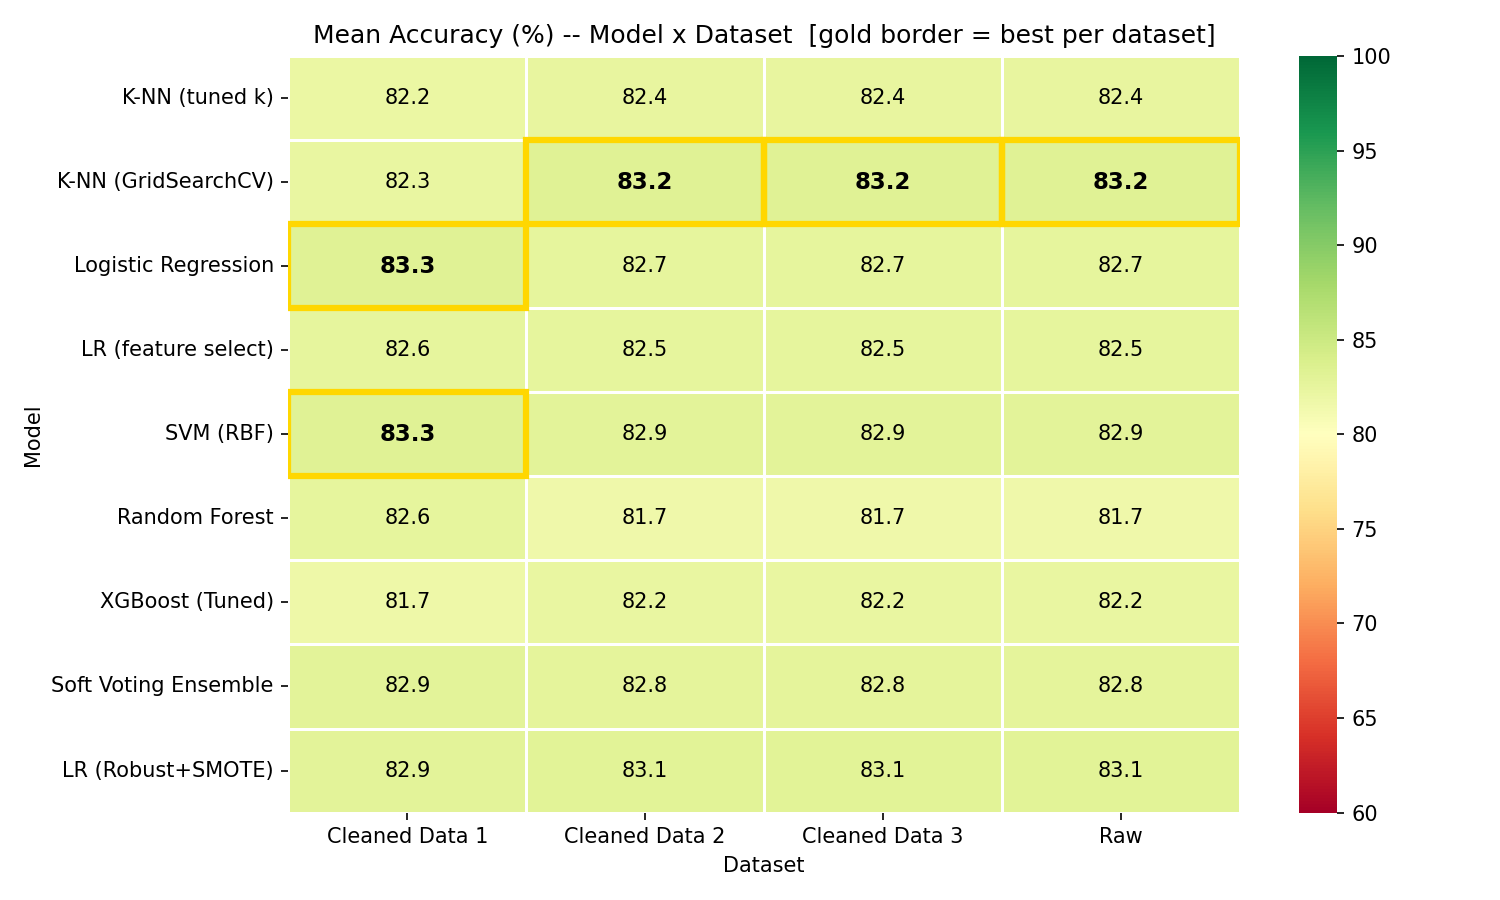
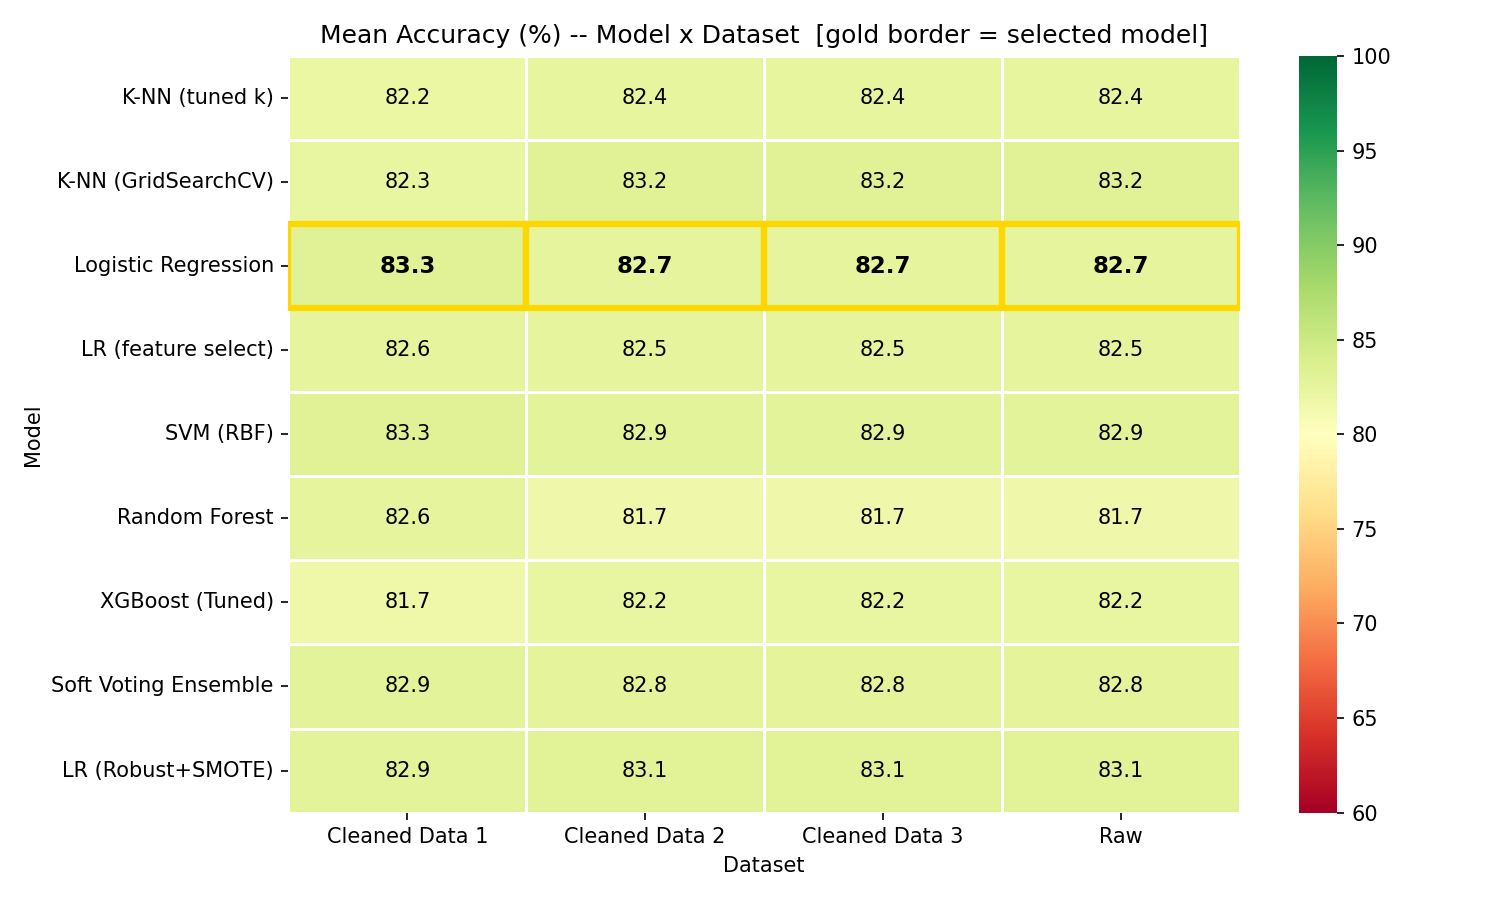
results updated based on our final model

Changed region(s): [[0.3373, 0.1244, 0.828, 0.3733], [0.184, 0.4044, 0.368, 0.56], [0.2147, 0.0311, 0.828, 0.0622]]

diff --git a/model_comparison.py b/model_comparison.py
@@ -56,6 +56,10 @@ MODEL_NAMES = [
     "LR (Robust+SMOTE)",
 ]
 
+# The model selected for production based on safety analysis
+# (lowest false negative rate without synthetic data, explainable coefficients)
+SELECTED_MODEL = "Logistic Regression"
+
 # Columns to drop for the feature-selected LR (Nicholas's approach).
 # Listed under both raw and renamed variants so it works on every dataset.
 NICHOLAS_DROP_COLS = {
@@ -259,8 +263,8 @@ def plot_grouped_bar(df, save_path="results/comparison_by_model.png"):
     x = np.arange(n_models)
     width = 0.8 / n_datasets
 
-    # Find the overall best model (highest mean accuracy across all datasets)
-    best_model = df.groupby("Model")["Accuracy"].mean().idxmax()
+    # Highlight the selected model (chosen for safety, not just accuracy)
+    best_model = SELECTED_MODEL
 
     fig, ax = plt.subplots(figsize=(14, 7))
     for i, ds in enumerate(dataset_names):
@@ -314,24 +318,23 @@ def plot_heatmap(df, save_path="results/comparison_heatmap.png"):
         linewidths=0.5, ax=ax, vmin=60, vmax=100,
     )
 
-    # Annotate cells, bolding the best value per column (dataset)
+    # Annotate cells, highlighting the selected model
     for col_idx, ds in enumerate(pivot.columns):
-        best_val = pivot[ds].max()
         for row_idx, model in enumerate(pivot.index):
             val = pivot.loc[model, ds]
-            is_best = abs(val - best_val) < 0.01
+            is_selected = model == SELECTED_MODEL
             ax.text(col_idx + 0.5, row_idx + 0.5, f"{val:.1f}",
                     ha="center", va="center",
-                    fontsize=11 if is_best else 10,
-                    fontweight="bold" if is_best else "normal",
+                    fontsize=11 if is_selected else 10,
+                    fontweight="bold" if is_selected else "normal",
                     color="black")
-            if is_best:
+            if is_selected:
                 ax.add_patch(plt.Rectangle(
                     (col_idx, row_idx), 1, 1,
                     fill=False, edgecolor="gold", linewidth=3,
                 ))
 
-    ax.set_title("Mean Accuracy (%) -- Model x Dataset  [gold border = best per dataset]")
+    ax.set_title("Mean Accuracy (%) -- Model x Dataset  [gold border = selected model]")
     plt.tight_layout()
     plt.savefig(save_path, dpi=150)
     print(f"Saved {save_path}")
@@ -382,16 +385,14 @@ def plot_roc_curves(all_pipelines, datasets, save_path="results/comparison_roc.p
             mean_auc = np.mean(aucs)
             roc_data[model_name] = (mean_fpr, mean_tpr, mean_auc)
 
-        best_model = max(roc_data, key=lambda m: roc_data[m][2])
-
         for model_name, (fpr, tpr, auc) in roc_data.items():
-            is_best = model_name == best_model
-            lw = 3.0 if is_best else 1.2
+            is_selected = model_name == SELECTED_MODEL
+            lw = 3.0 if is_selected else 1.2
             line_label = f"{model_name} (AUC={auc:.3f})"
-            if is_best:
-                line_label += " *BEST*"
+            if is_selected:
+                line_label += " *SELECTED*"
             ax.plot(fpr, tpr, label=line_label, linewidth=lw,
-                    alpha=1.0 if is_best else 0.7)
+                    alpha=1.0 if is_selected else 0.7)
 
         ax.plot([0, 1], [0, 1], "k--", linewidth=0.8, label="Chance")
         ax.set_title(f"ROC -- {ds_label}")
@@ -415,11 +416,7 @@ def plot_confusion_matrices(all_pipelines, datasets, results_df,
     n_models = len(MODEL_NAMES)
     cv = StratifiedKFold(n_splits=CV_FOLDS, shuffle=True, random_state=RANDOM_STATE)
 
-    # Find the best model per dataset by accuracy
-    best_per_ds = {}
-    for ds in dataset_labels:
-        ds_rows = results_df[results_df["Dataset"] == ds]
-        best_per_ds[ds] = ds_rows.loc[ds_rows["Accuracy"].idxmax(), "Model"]
+    # Highlight the selected model (chosen for safety, not just accuracy)
 
     fig, axes = plt.subplots(n_ds, n_models, figsize=(3.5 * n_models, 3.5 * n_ds))
 
@@ -432,17 +429,17 @@ def plot_confusion_matrices(all_pipelines, datasets, results_df,
             pipe = pipelines[model_name]
             y_pred = cross_val_predict(pipe, X, y, cv=cv)
             cm = confusion_matrix(y, y_pred)
-            is_best = best_per_ds[label] == model_name
-            cmap = "YlOrRd" if is_best else "Blues"
+            is_selected = model_name == SELECTED_MODEL
+            cmap = "YlOrRd" if is_selected else "Blues"
             ConfusionMatrixDisplay(cm, display_labels=["No Disease", "Disease"]).plot(
                 ax=ax, cmap=cmap, colorbar=False,
             )
             title_text = model_name
             if row == 0:
-                if is_best:
-                    title_text += " *BEST*"
+                if is_selected:
+                    title_text += " *SELECTED*"
                 ax.set_title(title_text, fontsize=9,
-                             fontweight="bold" if is_best else "normal")
+                             fontweight="bold" if is_selected else "normal")
             else:
                 ax.set_title("")
             if col == 0:
@@ -450,8 +447,8 @@ def plot_confusion_matrices(all_pipelines, datasets, results_df,
             else:
                 ax.set_ylabel("")
             ax.set_xlabel("" if row < n_ds - 1 else "Predicted", fontsize=8)
-            # Gold border for best
-            if is_best:
+            # Gold border for selected model
+            if is_selected:
                 for spine in ax.spines.values():
                     spine.set_edgecolor("gold")
                     spine.set_linewidth(3)
